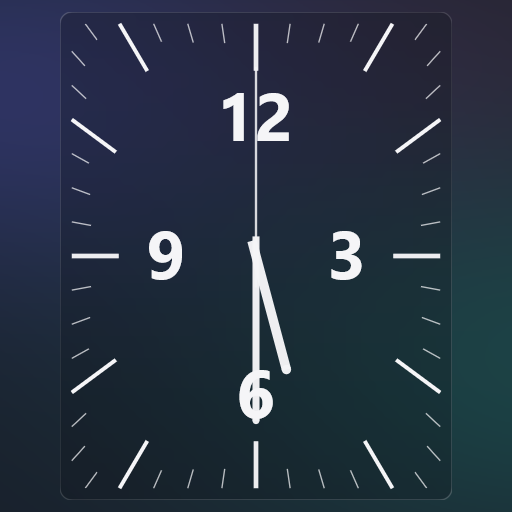
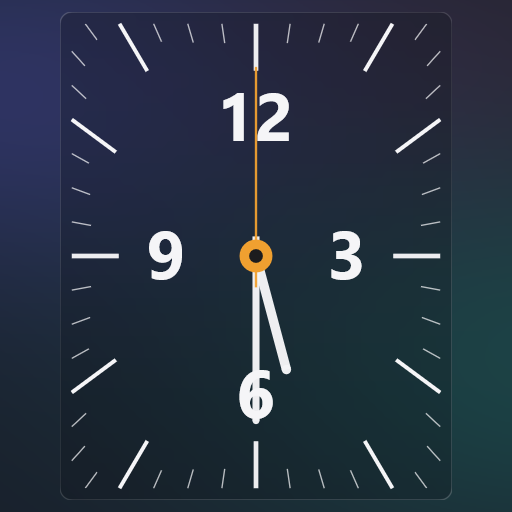
Tick Clock 1.2.2: orange second hand and centre hub

Changed region(s): [[0.4688, 0.1562, 0.5312, 0.5625]]

diff --git a/README.md b/README.md
@@ -14,7 +14,7 @@
 - **刻度渐隐**：可开启未高亮刻度随距时间标记的远近逐渐变淡；渐隐范围可调（尾部长度占整圈 25–100%，默认 60%；100% 不渐隐）：当前秒是移动头部，尾部随秒针前进逐渐淡出到最低透明度，头部刻度保持原亮度。渐隐最低透明度可调（0 即完全消失），原有红/白刻度配色和标记逻辑不变；渐隐与刻度高亮互斥。
 - **可调刻度**：可设置刻度环圆角半径（0–64 DIP）、普通刻度长度（短边 1–8%）、全盘刻度密度（默认值的 50–200%，默认 70；指针模式按 12 根对齐）、刻度亮度（默认 70）、刻度线粗细（默认值的 30–300%）。
 - **时/分/秒标记开关**：时针、分针、秒针的红色刻度高亮可分别关闭；关闭后该刻度恢复普通颜色，并退出渐隐锚点。
-- **指针模式**：贴边圆角方形表盘、12/3/6/9 四个数字、时针、分针与走动的秒针；三根指针的长度（短边百分比）与线宽（默认值的 30–300%）分别可调；四个圆角各两根高亮刻度、12/3/6/9 四向刻度的长度也各自可调。隐藏数字时间、星期和日期。
+- **指针模式**：贴边圆角方形表盘、12/3/6/9 四个数字、时针、分针与橙色走动的秒针，中心为橙色圆环加暗色内芯；三根指针的长度（短边百分比）与线宽（默认值的 30–300%）分别可调；四个圆角各两根高亮刻度、12/3/6/9 四向刻度的长度也各自可调。隐藏数字时间、星期和日期。
 - **设置按模式显示**：数字模式字段只在关闭指针模式时出现，指针模式字段只在打开后出现；共用的密度、亮度、圆角、刻度长度与线宽始终可见。
 - **刻度环**：沿卡片内缘等弧长排布，相邻刻度间距一致；每根刻度指向卡片中心。圆角与卡片边框同心（外圈半径 = 卡片圆角 − 内缩量），不是简单的小圆角矩形。
 - **星期**：`周日…周六`（中文）或 `SUN…SAT`（英文），固定参考图的红色 `#EE3B33`。

diff --git a/CHANGELOG.md b/CHANGELOG.md
@@ -2,6 +2,11 @@
 
 本项目遵循 [SemVer](https://semver.org/lang/zh-CN/)：补丁修问题、次版本加功能、主版本改清单结构或存储键。
 
+## 1.2.2 — 2026-11-19
+
+- **指针表盘对齐参考图**：秒针改为橙色，中心增加橙色圆环加暗色内芯；时针/分针保持前景色，刻度环与 12/3/6/9 数字布局不变。
+- 秒针线宽与长度继续可调，中心圆环随表盘短边缩放。
+
 ## 1.2.1 — 2026-11-19
 
 - **渐隐模式改为移动头部 + 尾部**：当前秒是头部，尾部随秒针前进逐渐淡出；渐隐范围表示尾部长度（25–100%，默认 60%），100% 不渐隐，最低透明度 0 时尾部完全消失。
